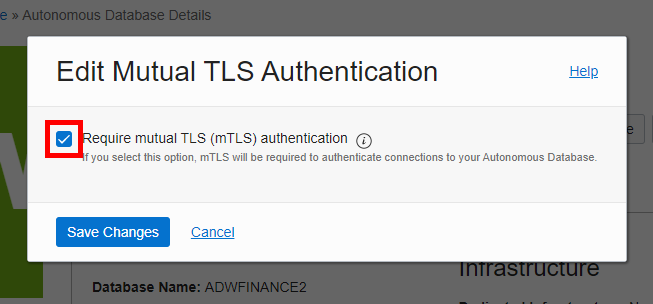
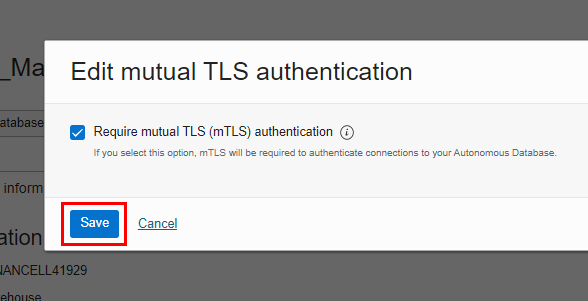
Workshop 142 Minor fixes to lab on connecting with and without wallet
- changed "Save Changes" to "Save" in text and in a screenshot
- additionally, some edits to Workshop 141 "Load and Analyze" workshop's new lab on creating data pipelines, currently not included in manifest.json while being developed.

diff --git a/shared/adw-connection-wallet/adw-connection-wallet.md b/shared/adw-connection-wallet/adw-connection-wallet.md
@@ -38,7 +38,7 @@ The first of two methods we'll learn for establishing a secure SQL Developer con
 
 When you provisioned your autonomous database instance with a network access type of "Secure access from everywhere", by default, mTLS authentication was required, and the only ways to enable TLS in addition to mTLS are either to define an access control list (ACL) or to use a private endpoint. For this lab, you will configure an **IP ACL** (access control list). Then you will be able to uncheck the "Require mutual TLS" checkbox, which in turn will enable TLS for connecting without a wallet.
 
-  >**Note**: See the documentation [Update your Autonomous Database Instance to Allow both TLS and mTLS Authentication] (https://docs.oracle.com/pls/topic/lookup?ctx=en/cloud/paas/autonomous-data-warehouse-cloud/cswgs&id=ADBSA-GUID-6A34B30A-3692-4D1F-8458-FD8F32736199) for detailed information on allowing TLS connections.
+>**Note**: See the documentation [Update your Autonomous Database Instance to Allow both TLS and mTLS Authentication] (https://docs.oracle.com/pls/topic/lookup?ctx=en/cloud/paas/autonomous-data-warehouse-cloud/cswgs&id=ADBSA-GUID-6A34B30A-3692-4D1F-8458-FD8F32736199) for detailed information on allowing TLS connections.
 
 To create a new TLS connection to Autonomous Database:
 
@@ -46,7 +46,7 @@ To create a new TLS connection to Autonomous Database:
 
     ![Click the Edit button next to Access control list](./images/click-edit-to-create-acl.png " ")
 
-2. In the **Edit Access Control List** dialog, click **Add My IP Address**. Your computer's IP address will be added as a value. Click **Save Changes**. Wait a minute for the database status to change from UPDATING to AVAILABLE.
+2. In the **Edit Access Control List** dialog, click **Add My IP Address**. Your computer's IP address will be added as a value. Click **Save**. Wait a minute for the database status to change from UPDATING to AVAILABLE.
 
     ![Click Add My IP Address and click Save Changes](./images/click-add-my-ip-address.png " ")
 
@@ -54,7 +54,7 @@ To create a new TLS connection to Autonomous Database:
 
     ![Click the Edit button next to Mutual TLS authentication](./images/click-edit-to-uncheck-mtls.png " ")
 
-4. In the **Edit Mutual TLS Authentication** dialog, deselect the checkbox that requires mutual TLS (mTLS) authentication and and click **Save Changes**. Wait a minute for the database status to change from UPDATING to AVAILABLE.
+4. In the **Edit Mutual TLS Authentication** dialog, deselect the checkbox that requires mutual TLS (mTLS) authentication and and click **Save**. Wait a minute for the database status to change from UPDATING to AVAILABLE.
 
     ![Deselect mutual TLS](./images/deselect-mtls-checkbox.png " ")
 
@@ -64,7 +64,7 @@ Next, perform the following steps to obtain the **TLS connection string**.
 
 5. In the **Autonomous Database Details** page, click the **Database connection** button.
 
-    The **Database Connection** dialog pops up. In the **Connection Strings** section, change the **TLS Authentication** selection from Mutual TLS to **TLS**. This will enable SQL Developer and other applications to connect to your autonomous database securely without a wallet.
+    The **Database connection** dialog pops up. In the **Connection Strings** section, change the **TLS Authentication** selection from Mutual TLS to **TLS**. This will enable SQL Developer and other applications to connect to your autonomous database securely without a wallet.
 
     Choose one of the connection strings, such as *adwfinance_high*, and optionally click **Show** to see the contents of the connection string. Then click **Copy** to copy that connection string. Paste the connection string to a notepad for use in a next step. Then click **Close** to close the Database Connection dialog.
 

diff --git a/shared/adb-load-analyze-workshop/create-data-pipelines/create-data-pipelines.md b/shared/adb-load-analyze-workshop/create-data-pipelines/create-data-pipelines.md
@@ -33,6 +33,8 @@ In this lab, you will:
 * Configure the data pipeline attributes
 * Test the data pipeline
 * Start the data pipeline
+* Upload data to your object storage bucket
+* Check that the data pipeline loaded the data into the database
 * Reset the pipeline's state and history
 
 ### Prerequisites
@@ -155,7 +157,19 @@ Introductory Text
 
 1. text
 
-## Task 5: Optionally reset the pipeline's state and history
+## Task 5: Upload data to your object storage bucket
+
+Introductory Text
+
+1. text
+
+## Task 6: Check that the data pipeline loaded the data into the database
+
+Introductory Text
+
+1. text
+
+## Task 7: Optionally reset the pipeline's state and history
 
 Introductory Text
 
